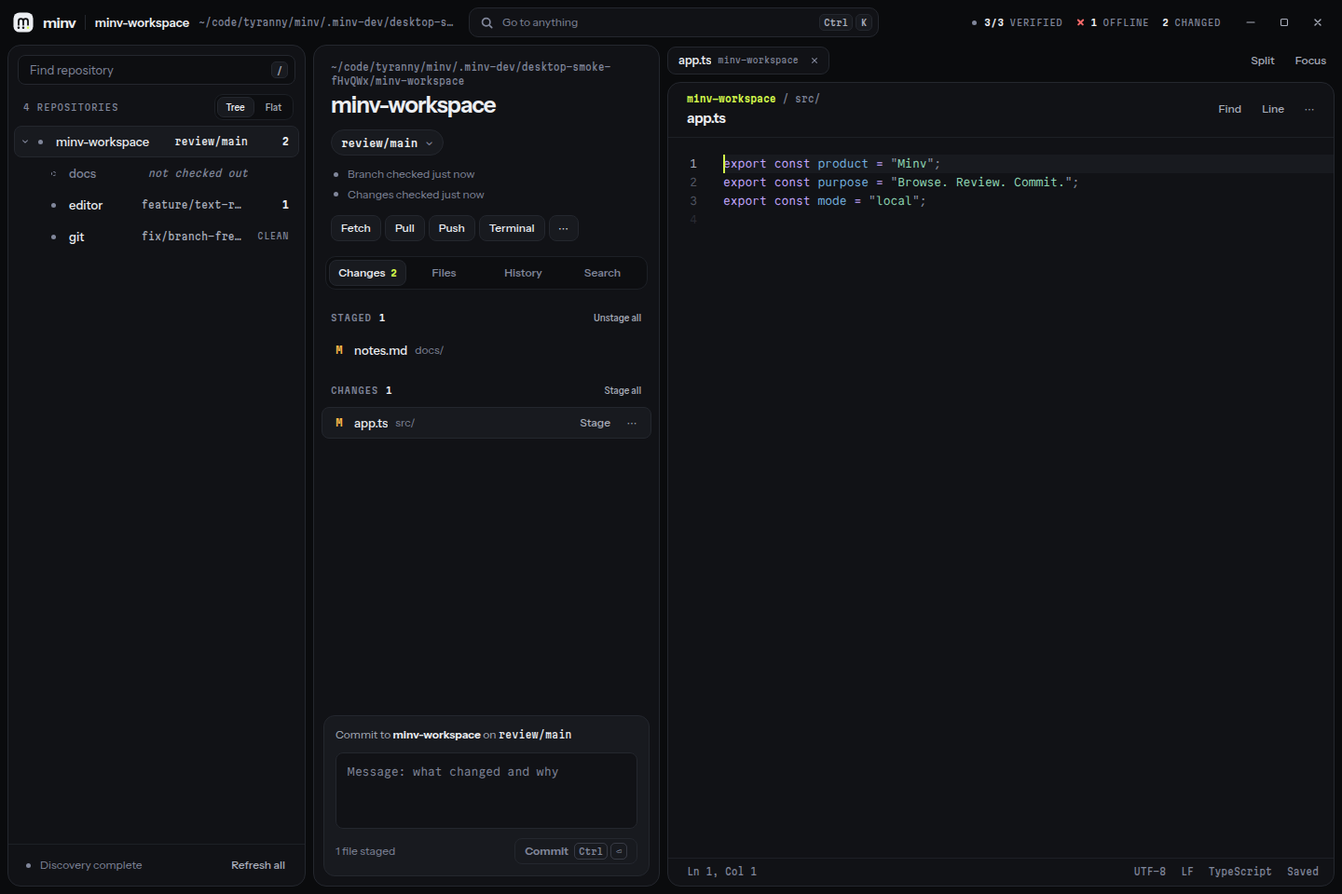
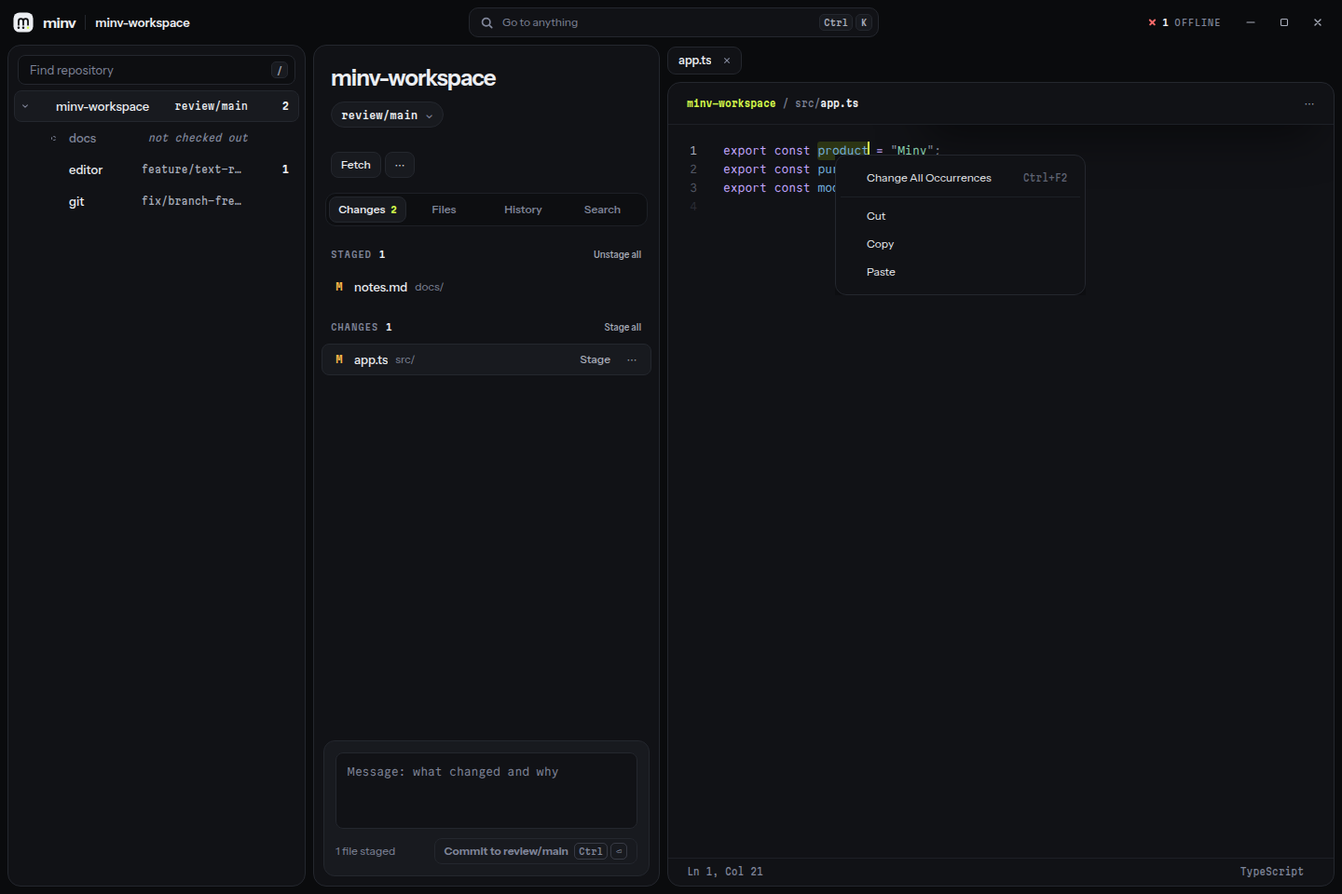
Quiet the interface: show exceptions, not confirmations
- Title bar: no workspace path; status shows only checking/offline/restricted.
- Repository list: no count, layout toggle moved to the palette, no 'clean'
  labels or dots on verified rows, footer only while discovering or on error,
  default branches dimmed.
- Repository panel: no absolute path or 'checked just now' lines, upstream
  only when ahead/behind, one adaptive Fetch/Pull/Push button plus a menu,
  commit form only when something is staged or drafted.
- Editor: one-line header, Find and Go to line in the menu, no Split/Focus
  buttons, footer only names unusual encodings and line endings.
- Home: work in progress, drafts and three keys instead of a dashboard.
- Record the rule in docs/DESIGN.md.

diff --git a/desktop/renderer/src/ui/sheets.ts b/desktop/renderer/src/ui/sheets.ts
@@ -3,17 +3,15 @@ import { normalizeAppearance, type Appearance, type EditorHandle } from '../cont
 import { changedRange, inlinePairs, splitRows, stats, type DiffLine, type FileDiff, type Hunk } from '../diff.js';
 import { attr, h, kbd, mod, text } from '../dom.js';
 import { branchText, changeCount, groupChanges, languageName, languageOf, plural, relativeTime, shortOid, splitPath } from '../format.js';
-import { selectedRow, type Sheet, type State } from '../state.js';
+import { type Sheet, type State } from '../state.js';
 import { close as closeIcon, mark } from './icons.js';
-import { ledger } from './index.js';
 
 interface SheetView { element: HTMLElement; render(state: State): void; layout?(): void; focus(): void; dispose?(): void }
 
 export function createDesk(app: App): { element: HTMLElement; render(state: State): void; focus(): void; layout(): void } {
   const tabs = h('div', { class: 'sheet-tabs', role: 'tablist', 'aria-label': 'Open sheets' });
-  const split = h('button', { class: 'button quiet', title: `Split desk (${mod} \\)`, onclick: () => app.toggleSplit() }, 'Split');
-  const focusBtn = h('button', { class: 'button quiet', title: `Focus mode (${mod} B)`, onclick: () => app.store.update(s => { s.focus = !s.focus; }) }, 'Focus');
-  const strip = h('div', { class: 'strip' }, tabs, h('div', { class: 'strip-tools' }, split, focusBtn));
+  const focusBtn = h('button', { class: 'button quiet', hidden: true, title: `Leave focus mode (${mod} B)`, onclick: () => app.store.update(s => { s.focus = false; }) }, 'Leave focus');
+  const strip = h('div', { class: 'strip' }, tabs, h('div', { class: 'strip-tools' }, focusBtn));
   const panes = h('div', { class: 'panes' });
   const element = h('main', { class: 'desk', 'aria-label': 'Sheets' }, strip, panes);
   const views = new Map<string, SheetView>();
@@ -48,12 +46,11 @@ export function createDesk(app: App): { element: HTMLElement; render(state: Stat
           onkeydown: (e: KeyboardEvent) => { if (e.key === 'Enter') { app.activate(sheet.id); app.focusPlane('sheet'); } } },
           sheet.dirty ? h('span', { class: 'dirty', 'aria-label': 'unsaved' }) : null,
           kind ? h('span', { class: 'kind' }, kind === 'review' ? 'Diff' : kind) : null,
-          h('span', { class: 'tt' }, sheet.title), owner && sheet.kind !== 'settings' ? h('span', { class: 'owner' }, owner) : null,
+          h('span', { class: 'tt' }, sheet.title), owner && sheet.kind !== 'settings' && (counts.get(sheet.title) ?? 0) > 1 ? h('span', { class: 'owner' }, owner) : null,
           h('button', { class: 'x', 'aria-label': `Close ${sheet.title}`, onclick: () => void app.closeSheet(sheet.id) }, closeIcon()));
-        void counts;
         return tab;
       }));
-      attr(split, 'aria-pressed', String(!!state.splitSheet));
+      attr(focusBtn, 'hidden', !state.focus);
       // Panes
       const active = state.sheets.find(s => s.id === state.activeSheet);
       const splitSheet = state.sheets.find(s => s.id === state.splitSheet);
@@ -89,7 +86,7 @@ function sheetFrame(label: string) {
 function heading(app: App, sheet: Sheet, title: string, aside?: string) {
   const owner = app.state.rows.get(sheet.repositoryId);
   const { dir } = splitPath(sheet.path ?? '');
-  return [h('div', { class: 'path' }, owner ? h('b', null, owner.name) : '', owner ? ' / ' : '', dir), h('div', { class: 'file-title' }, title, aside ? h('span', { class: 'aside' }, aside) : null)];
+  return [h('div', { class: 'path' }, owner ? h('b', null, owner.name) : '', owner ? ' / ' : '', dir, h('span', { class: 'leaf' }, title), aside ? h('span', { class: 'aside' }, aside) : null)];
 }
 
 const eolName = { lf: 'LF', crlf: 'CRLF', cr: 'CR', mixed: 'Mixed line endings', none: 'No line endings' } as const;
@@ -117,9 +114,10 @@ function fileView(app: App, sheet: Sheet): SheetView {
     if ((e.ctrlKey || e.metaKey) && !e.shiftKey && !e.altKey && e.key.toLowerCase() === 'g') { e.preventDefault(); e.stopPropagation(); void gotoLine(); }
   }, true);
   f.tools.append(
-    h('button', { class: 'button quiet', title: `Find (${mod} F)`, onclick: () => handle?.run('find') }, 'Find'),
-    h('button', { class: 'button quiet', title: `Go to line (${mod} G)`, onclick: () => void gotoLine() }, 'Line'),
-    h('button', { class: 'button quiet', onclick: (e: Event) => app.menu(e.currentTarget as HTMLElement, [
+    h('button', { class: 'button quiet', 'aria-label': 'File actions', onclick: (e: Event) => app.menu(e.currentTarget as HTMLElement, [
+      { label: 'Find', hint: `${mod} F`, run: () => handle?.run('find') },
+      { label: 'Go to line…', hint: `${mod} G`, run: () => void gotoLine() },
+      'sep',
       { label: 'Save', hint: `${mod} S`, run: () => void app.save(sheet) },
       { label: 'Review changes', run: () => void app.openReview(sheet.repositoryId, sheet.path!, 'unstaged') },
       { label: 'Reveal in file manager', run: () => void app.reveal(sheet.path) },
@@ -169,8 +167,12 @@ function fileView(app: App, sheet: Sheet): SheetView {
         requestAnimationFrame(() => { handle?.layout(); if (sheet.view) { handle?.setView(sheet.view); sheet.view = undefined; } else if (sheet.line) handle?.revealLine(sheet.line, sheet.column); handle?.focus(); });
       }
       handle = rt.handle;
-      if (c) { text(enc, `${encName[c.encoding]}${c.bom ? ' with BOM' : ''}`); text(eol, eolName[c.eol]); text(lang, languageName[languageOf(sheet.path!)] ?? 'Plain text'); }
-      text(state, rt.saving ? 'Saving…' : rt.dirty ? 'Unsaved' : 'Saved');
+      if (c) {
+        text(enc, c.encoding === 'utf8' && !c.bom ? '' : `${encName[c.encoding]}${c.bom ? ' with BOM' : ''}`);
+        text(eol, c.eol === 'lf' || c.eol === 'none' ? '' : eolName[c.eol]);
+        text(lang, languageName[languageOf(sheet.path!)] ?? 'Plain text');
+      }
+      text(state, rt.saving ? 'Saving…' : rt.dirty ? 'Unsaved' : '');
       state.className = rt.dirty ? 'state-dirty' : '';
       void st;
     },
@@ -449,30 +451,18 @@ function createFront(app: App) {
     render(state: State) {
       const w = state.workspace;
       if (!w) return;
-      const l = ledger(state);
-      const sel = selectedRow(state);
-      const withChanges = state.order.map(id => state.rows.get(id)!).filter(r => r.status.state === 'observed' && changeCount(r.status.value) > 0).slice(0, 7);
-      const key = JSON.stringify([w.name, l, sel?.id, withChanges.map(r => [r.id, changeCount(r.status.value)]), state.recoveries.length, w.trusted]);
+      const working = state.order.map(id => state.rows.get(id)!).filter(r => r.status.state === 'observed' && changeCount(r.status.value) > 0).slice(0, 7);
+      const key = JSON.stringify([w.name, working.map(r => [r.id, branchText(r.branch), changeCount(r.status.value)]), state.recoveries.map(d => d.documentId)]);
       if (element.dataset.key === key) return;
       element.dataset.key = key;
-      const known = l.total - l.offline;
-      const readout = (num: string | HTMLElement, what: string, signal = false) => h('div', null, h('div', { class: `num${signal ? ' signal' : ''}` }, num), h('div', { class: 'what' }, what));
-      const primer: [string[], string][] = [[[mod, 'K'], 'Go to a repository, file or command'], [['/'], 'Find a repository'], [[mod, '1 2 3'], 'Repositories, inspector, editor'], [['Space'], 'Stage or unstage the focused file'], [['S'], 'Stage the current hunk in a review'], [[mod, '⏎'], 'Commit']];
+      const pick = (label: string, aside: string, run: () => void) => h('button', { class: 'pick', onclick: run }, h('span', null, label), h('span', { class: 'b' }, aside));
+      const primer: [string[], string][] = [[[mod, 'K'], 'Go to anything'], [['/'], 'Find a repository'], [[mod, '⏎'], 'Commit']];
       element.replaceChildren(
-        h('div', { class: 'kicker' }, w.fixture ? 'Preview fixture · ' : '', w.roots[0]?.replace(/^\/home\/[^/]+/, '~') ?? ''),
-        h('h1', null, w.name),
-        h('div', { class: 'readouts', role: 'status' },
-          readout(h('span', null, String(l.verified), h('small', null, `/${known}`)), l.checking ? `branches verified · ${l.checking} checking` : l.unverified ? `branches verified · ${l.unverified} from last session` : 'branches verified', l.verified === known && known > 0),
-          readout(l.statusKnown ? String(l.withChanges) : '—', l.statusKnown < known ? `with changes · ${known - l.statusKnown} not scanned yet` : 'with changes'),
-          readout(String(l.offline + l.failed), l.offline + l.failed === 1 ? 'checkout unavailable' : 'checkouts unavailable'),
-          readout(w.discovery === 'complete' ? 'Done' : w.discovery === 'error' ? 'Error' : '…', w.discovery === 'complete' ? 'discovery complete' : w.discovery === 'cached' ? 'saved catalog, discovering' : 'discovering checkouts')),
-        h('div', { class: 'front-grid' },
-          h('div', null, h('h2', { class: 'label' }, withChanges.length ? 'Work in progress' : 'Repositories'),
-            ...(withChanges.length ? withChanges : state.order.slice(0, 6).map(id => state.rows.get(id)!)).map(r => h('button', { class: 'pick', onclick: () => { app.select(r.id); app.focusPlane('folio'); } },
-              h('span', null, r.name), h('span', { class: 'b' }, `${branchText(r.branch) ?? '—'}${r.status.value && changeCount(r.status.value) ? ` · ${changeCount(r.status.value)}` : ''}`)))),
-          h('div', null, h('h2', { class: 'label' }, 'Keys'), h('div', { class: 'primer' }, ...primer.flatMap(([keys, label]) => [kbd(...keys), h('span', null, label)]))),
-          state.recoveries.length ? h('div', null, h('h2', { class: 'label' }, 'Unsaved drafts'), ...state.recoveries.map(d => h('button', { class: 'pick', onclick: () => void openDraft(app, d.documentId, d.repositoryId, d.path) }, h('span', null, splitPath(d.path).base), h('span', { class: 'b' }, `${state.rows.get(d.repositoryId)?.name ?? ''}${d.updatedAt ? ` · ${relativeTime(d.updatedAt)}` : ''}`)))) : null),
-        h('p', { class: 'colophon' }, h('b', null, 'minv'), ' — an editor and a repository map. Nothing else competes for your attention.'));
+        working.length ? h('div', null, h('h2', { class: 'label' }, 'Work in progress'),
+          ...working.map(r => pick(r.name, `${branchText(r.branch) ?? '—'} · ${changeCount(r.status.value)}`, () => { app.select(r.id); app.focusPlane('folio'); }))) : '',
+        state.recoveries.length ? h('div', null, h('h2', { class: 'label' }, 'Unsaved drafts'),
+          ...state.recoveries.map(d => pick(splitPath(d.path).base, `${state.rows.get(d.repositoryId)?.name ?? ''}${d.updatedAt ? ` · ${relativeTime(d.updatedAt)}` : ''}`, () => void openDraft(app, d.documentId, d.repositoryId, d.path)))) : '',
+        h('div', { class: 'primer' }, ...primer.flatMap(([keys, label]) => [kbd(...keys), h('span', null, label)])));
     },
   };
 }

diff --git a/desktop/renderer/src/ui/folio.ts b/desktop/renderer/src/ui/folio.ts
@@ -47,7 +47,8 @@ export function createFolio(app: App): { element: HTMLElement; render(state: Sta
       const view = state.tab === 'changes' ? changes : state.tab === 'files' ? files : state.tab === 'history' ? history : search;
       if (shownTab !== state.tab || shownRepo !== row?.id) { body.replaceChildren(view.element); body.scrollTop = 0; shownTab = state.tab; shownRepo = row?.id; }
       view.render(state, row);
-      attr(slip, 'hidden', state.tab !== 'changes' || !row);
+      const staged = row?.status.value ? groupChanges(row.status.value).staged.length : 0;
+      attr(slip, 'hidden', state.tab !== 'changes' || !row || (!staged && !state.drafts.get(row.id)));
       if (row && state.tab === 'changes') commit.render(state, row);
     },
   };
@@ -63,7 +64,7 @@ function renderHead(app: App, head: HTMLElement, row: RepositoryRow | undefined,
   const chain: RepositoryRow[] = [];
   while (parent && chain.length < 8) { chain.unshift(parent); parent = parent.parentId ? state.rows.get(parent.parentId) : undefined; }
   for (const p of chain) crumbs.push(h('button', { onclick: () => app.select(p.id), title: `Select ${p.name}` }, p.name), '/');
-  crumbs.push(h('span', null, row.relativePath ? row.relativePath.slice(chain.at(-1)?.relativePath ? chain.at(-1)!.relativePath.length + 1 : 0) : row.root.replace(/^\/home\/[^/]+/, '~')));
+  if (chain.length) crumbs.push(h('span', null, row.relativePath.slice(chain.at(-1)?.relativePath ? chain.at(-1)!.relativePath.length + 1 : 0)));
 
   const b = row.branch;
   const name = branchText(b);
@@ -72,13 +73,13 @@ function renderHead(app: App, head: HTMLElement, row: RepositoryRow | undefined,
   const branchButton = h('button', { class: 'branch-name', disabled: !row.available, title: writable ? `Switch branch (${mod} ⇧ B)` : 'Branches', onclick: () => void app.branchPicker() },
     h('span', { class: unverified ? 'unverified' : '' }, name ?? (b.state === 'error' ? 'unreadable' : 'checking…')), h('span', { class: 'chev', 'aria-hidden': 'true' }, '⌄'));
   const up = row.upstream?.value;
-  const upstream = up ? h('span', { class: `upstream ${row.upstream!.state === 'observed' ? '' : 'unverified'}`, title: up.lastFetchAt ? `Last fetched ${relativeTime(up.lastFetchAt)}` : 'Not fetched in this session; counts use local refs only' },
-    up.ahead || up.behind ? [h('b', null, `↑${up.ahead}`), ' ', h('b', null, `↓${up.behind}`), ' '] : 'in sync with ', up.name) : null;
+  const upstream = up && (up.ahead || up.behind) ? h('span', { class: `upstream ${row.upstream!.state === 'observed' ? '' : 'unverified'}`, title: up.lastFetchAt ? `Last fetched ${relativeTime(up.lastFetchAt)}` : 'Not fetched in this session; counts use local refs only' },
+    up.ahead ? [h('b', null, `↑${up.ahead}`), ' '] : '', up.behind ? [h('b', null, `↓${up.behind}`), ' '] : '', up.name) : null;
 
   const glyph = (f: string) => h('span', { class: 'glyph', 'data-f': f, 'aria-hidden': 'true' });
   const facts = h('div', { class: 'facts' },
-    h('div', { class: 'fact' }, glyph(!row.available ? 'offline' : b.state), branchSentence(row)),
-    row.available ? h('div', { class: 'fact' }, glyph(row.status.state), statusSentence(row)) : null);
+    row.available && b.state !== 'observed' ? h('div', { class: 'fact' }, glyph(b.state), branchSentence(row)) : null,
+    row.available && row.status.state !== 'observed' ? h('div', { class: 'fact' }, glyph(row.status.state), statusSentence(row)) : null);
 
   const notes: HTMLElement[] = [];
   const op = b.value?.operation;
@@ -89,12 +90,18 @@ function renderHead(app: App, head: HTMLElement, row: RepositoryRow | undefined,
   const net = app.network.get(row.id);
   if (net) notes.push(h('div', { class: 'note', role: 'status' }, h('b', null, `${net.kind === 'fetch' ? 'Fetching' : net.kind === 'pull' ? 'Pulling' : 'Pushing'} ${net.remote}.`), `Started ${relativeTime(net.since)}.`, h('br'), h('button', { class: 'button', onclick: () => void app.cancelNetwork(row.id) }, 'Stop')));
 
+  // One sync button that says what it will do: pull when behind, push when ahead, otherwise fetch.
+  const sync: 'pull' | 'push' | 'fetch' = up?.behind ? 'pull' : up?.ahead ? 'push' : 'fetch';
+  const syncLabel = sync === 'pull' ? `Pull ↓${up!.behind}` : sync === 'push' ? `Push ↑${up!.ahead}` : 'Fetch';
   const actions = h('div', { class: 'repo-actions' },
-    h('button', { class: 'button', disabled: !writable || !!net, onclick: () => void app.remote('fetch') }, 'Fetch'),
-    h('button', { class: 'button', disabled: !writable || !!net, onclick: () => void app.remote('pull') }, 'Pull'),
-    h('button', { class: 'button', disabled: !writable || !!net, onclick: () => void app.remote('push') }, 'Push'),
-    h('button', { class: 'button', disabled: !row.available, onclick: () => void app.terminal() }, 'Terminal'),
+    h('button', { class: 'button', disabled: !writable || !!net, onclick: () => void app.remote(sync) }, syncLabel),
     h('button', { class: 'button', 'aria-label': 'More repository actions', onclick: (e: Event) => app.menu(e.currentTarget as HTMLElement, [
+      ...(writable && !net ? [
+        ...(sync !== 'fetch' ? [{ label: 'Fetch', run: () => void app.remote('fetch') }] : []),
+        ...(sync !== 'pull' ? [{ label: 'Pull', run: () => void app.remote('pull') }] : []),
+        ...(sync !== 'push' ? [{ label: 'Push', run: () => void app.remote('push') }] : []),
+        'sep' as const] : []),
+      { label: 'Open terminal here', run: () => void app.terminal() },
       { label: state.pins.includes(row.id) ? 'Unpin from top' : 'Pin to top', run: () => app.togglePin(row.id) },
       { label: 'Refresh', hint: `${mod} R`, run: () => void app.refreshSelected() },
       { label: 'Stash changes…', run: () => void app.stash(row.id) },
@@ -104,7 +111,7 @@ function renderHead(app: App, head: HTMLElement, row: RepositoryRow | undefined,
       { label: 'Show diagnostics', run: () => void app.call('diagnostics.open', undefined) },
     ]) }, '⋯'));
 
-  head.replaceChildren(h('div', { class: 'crumbs' }, ...crumbs), h('h1', { class: 'title' }, row.name),
+  head.replaceChildren(crumbs.length ? h('div', { class: 'crumbs' }, ...crumbs) : '', h('h1', { class: 'title' }, row.name),
     h('div', { class: 'branch-line' }, h('span', { class: 'on' }, b.value?.kind === 'detached' ? 'at' : 'on'), branchButton, upstream),
     facts, ...notes, actions);
 }
@@ -125,10 +132,13 @@ function createChanges(app: App) {
       { label: 'Open file', hint: 'E', run: () => void app.openFile(row.id, e.change.path) },
       ...(!staged && e.kind !== 'submodule' ? ['sep' as const, { label: 'Discard changes…', hint: 'Del', danger: true, run: () => void app.discard(row.id, [e.change.path]) }] : []),
     ]); } }, '⋯');
-    const sub = e.kind === 'submodule' ? h('span', { class: 'sub' }, pointerSentence(e)) : e.change.originalPath ? h('span', { class: 'sub' }, `from ${e.change.originalPath}`) : null;
+    // A moved pointer is what the section already says; only unusual pointer states get a second line.
+    const pointer = e.kind === 'submodule' ? pointerSentence(e) : '';
+    const plainPointer = pointer === 'checked-out commit differs from recorded' || pointer === 'new commit recorded';
+    const sub = pointer && !plainPointer ? h('span', { class: 'sub' }, pointer) : e.change.originalPath ? h('span', { class: 'sub' }, `from ${e.change.originalPath}`) : null;
     const el = h('div', { class: `file${sub ? ' tall' : ''}`, tabindex: '0', role: 'listitem', 'data-kind': e.kind,
       'aria-label': `${base}, ${dir || 'repository root'}, ${e.kind}${staged ? ', staged' : ''}`,
-      onclick: open,
+      title: pointer || null, onclick: open,
       onkeydown: (ev: KeyboardEvent) => {
         if (ev.key === 'Enter') open();
         else if (ev.key === ' ') { if (writable) void app.stage(row.id, [e.change.path], staged); }
@@ -192,12 +202,11 @@ function nextFocusable(from: HTMLElement, dir: 1 | -1): HTMLElement | undefined 
 // ── Commit slip ──────────────────────────────────────────────────────────────
 
 function createSlip(app: App, slip: HTMLElement) {
-  const target = h('div', { class: 'slip-target' });
   const message = h('textarea', { class: 'field', rows: '3', placeholder: 'Message: what changed and why', 'aria-label': 'Commit message', spellcheck: 'true' });
   const meter = h('span', { class: 'meter', 'aria-hidden': 'true' });
   const why = h('span', { class: 'slip-why grow' });
   const commit = h('button', { class: 'button primary', onclick: () => void submit() }, 'Commit', h('span', { class: 'keys' }, h('kbd', null, mod), h('kbd', null, '⏎')));
-  slip.append(target, message, h('div', { class: 'slip-foot' }, why, meter, commit));
+  slip.append(message, h('div', { class: 'slip-foot' }, why, meter, commit));
   let repo: string | undefined;
   const submit = async () => { if (!repo || commit.disabled) return; commit.disabled = true; await app.commit(repo); };
   message.addEventListener('input', () => {
@@ -217,7 +226,7 @@ function createSlip(app: App, slip: HTMLElement) {
       else if (!state.drafts.has(row.id) && message.value && document.activeElement !== message) { message.value = ''; grow(); meterText(); }
       const g = groupChanges(row.status.value);
       const branch = branchText(row.branch);
-      target.replaceChildren('Commit to ', h('b', null, row.name), ' on ', h('code', { class: row.branch.state === 'observed' ? '' : 'unverified' }, branch ?? '—'));
+      commit.firstChild!.textContent = branch ? `Commit to ${branch}` : 'Commit';
       const staged = `${plural(g.staged.length, 'file')} staged${row.branch.value?.kind === 'detached' ? ' · detached HEAD' : ''}`;
       const blocked = app.writable(row)
         ?? (row.status.state !== 'observed' ? 'Waiting for changes to be verified' : undefined)

diff --git a/desktop/renderer/src/ui/index.ts b/desktop/renderer/src/ui/index.ts
@@ -26,7 +26,6 @@ export function ledger(state: State) {
 
 export function createMasthead(app: App): { element: HTMLElement; render(state: State): void } {
   const name = h('span', { class: 'workspace-name' });
-  const root = h('span', { class: 'workspace-root' });
   const fixture = h('span', { class: 'fixture-label', hidden: true, title: 'No desktop host is attached. Data comes from the bundled preview fixture.' });
   const ledgerEl = h('div', { class: 'ledger', role: 'status', 'aria-live': 'off' });
   const goto = h('button', { class: 'goto', onclick: () => openPalette(app), 'aria-label': 'Go to a repository, file or command' }, search(), h('span', { class: 'q' }, 'Go to anything'), kbd(mod, 'K'));
@@ -36,22 +35,22 @@ export function createMasthead(app: App): { element: HTMLElement; render(state: 
     h('button', { class: 'close', 'aria-label': 'Close window', onclick: () => void app.call('window.close', undefined, true) }, close()));
   const brandMark = mark(); brandMark.classList.add('mark');
   const element = h('header', { class: 'masthead', ondblclick: (e: MouseEvent) => { if (e.target === element) void app.call('window.toggleMaximize', undefined, true); } },
-    h('div', { class: 'brand', title: 'Minv · Browse. Review. Commit.' }, brandMark, h('span', { class: 'wordmark' }, 'minv'), h('span', { class: 'sep' }), name, root, fixture),
+    h('div', { class: 'brand', title: 'Minv · Browse. Review. Commit.' }, brandMark, h('span', { class: 'wordmark' }, 'minv'), h('span', { class: 'sep' }), name, fixture),
     goto, h('div', { class: 'bar-right' }, ledgerEl, controls));
   return {
     element,
     render(state) {
       const w = state.workspace;
       text(name, w?.name ?? 'Browse. Review. Commit.');
-      text(root, w ? w.roots.join(' · ').replace(/^\/home\/[^/]+/, '~') : '');
+      name.title = w ? w.roots.join('\n') : '';
       attr(fixture, 'hidden', !w?.fixture); text(fixture, w?.fixture ?? '');
       if (!w) { ledgerEl.replaceChildren(); return; }
+      // Only what needs attention. A healthy workspace shows nothing here.
       const l = ledger(state);
-      const parts: [string, string | number, string, Freshness | 'offline' | ''][] = [];
-      parts.push(['', `${l.verified}/${l.total - l.offline}`, 'verified', l.checking ? 'refreshing' : l.unverified ? 'cached' : 'observed']);
-      if (l.failed + l.offline) parts.push(['opt', l.failed + l.offline, 'offline', 'error']);
-      parts.push(['opt', l.statusKnown ? l.withChanges : '—', 'changed', '']);
-      ledgerEl.replaceChildren(...parts.map(([cls, n, label, f]) => h('span', { class: `item ${cls}` }, f ? h('span', { class: 'glyph', 'data-f': f, 'aria-hidden': 'true' }) : null, h('b', null, String(n)), label)));
+      const parts: [string | number, string, Freshness | 'offline'][] = [];
+      if (l.checking) parts.push([l.checking, 'checking', 'refreshing']);
+      if (l.failed + l.offline) parts.push([l.failed + l.offline, 'offline', 'error']);
+      ledgerEl.replaceChildren(...parts.map(([n, label, f]) => h('span', { class: 'item' }, h('span', { class: 'glyph', 'data-f': f, 'aria-hidden': 'true' }), h('b', null, String(n)), label)));
       if (!w.trusted) ledgerEl.append(h('span', { class: 'item' }, h('b', null, 'Restricted')));
     },
   };
@@ -100,6 +99,7 @@ function paletteCommands(app: App) {
       c('backups', 'Restore a backup…', () => void app.restoreBackups()),
       c('focus', 'Toggle focus mode', () => app.store.update(s => { s.focus = !s.focus; }), `${mod} B`),
       c('split', 'Toggle split desk', () => app.toggleSplit(), `${mod} \\`),
+      c('layout', app.state.layout === 'tree' ? 'Show repositories as a flat list' : 'Show repositories as a tree', () => app.store.update(s => { s.layout = s.layout === 'tree' ? 'flat' : 'tree'; })),
       c('trust', app.state.workspace?.trusted ? 'Return to restricted mode' : 'Trust this workspace…', () => void app.setTrust(!app.state.workspace?.trusted)),
       c('close', 'Close workspace', () => void app.closeWorkspace()),
     ] : []),
@@ -117,15 +117,12 @@ function paletteCommands(app: App) {
 
 export function createIndex(app: App): { element: HTMLElement; render(state: State): void; focus(): void; focusFind(): void } {
   const find = h('input', { class: 'field', type: 'search', placeholder: 'Find repository', 'aria-label': 'Find repository by name, path or branch', spellcheck: 'false' });
-  const tree = h('button', { class: 'button quiet toggle', 'aria-pressed': 'true', onclick: () => app.store.update(s => { s.layout = 'tree'; }) }, 'Tree');
-  const flat = h('button', { class: 'button quiet toggle', 'aria-pressed': 'false', onclick: () => app.store.update(s => { s.layout = 'flat'; }) }, 'Flat');
-  const count = h('span');
   const spacer = h('div', { class: 'spacer' });
   const list = h('div', { class: 'list', role: 'tree', tabindex: '0', 'aria-label': 'Repositories', 'aria-multiselectable': 'false' }, spacer);
   const foot = h('div', { class: 'index-foot', role: 'status' });
   const note = h('div', { class: 'empty-note', hidden: true });
   const element = h('nav', { class: 'index', 'aria-label': 'Repository index' },
-    h('div', { class: 'index-head' }, h('div', { class: 'find' }, find, kbd('/')), h('div', { class: 'index-meta' }, count, h('div', { class: 'seg', role: 'group', 'aria-label': 'Layout' }, tree, flat))),
+    h('div', { class: 'index-head' }, h('div', { class: 'find' }, find, kbd('/'))),
     list, note, foot);
 
   let rows: string[] = [];
@@ -219,7 +216,7 @@ export function createIndex(app: App): { element: HTMLElement; render(state: Sta
     if (branch!.dataset.v !== `${branchLabel}|${op}|${row.branch.state}`) {
       branch!.dataset.v = `${branchLabel}|${op}|${row.branch.state}`;
       branch!.replaceChildren(branchLabel, op ? h('span', { class: 'op' }, op) : '');
-      branch!.className = `branch${row.branch.state === 'cached' || row.branch.state === 'stale' || !row.available || !b ? ' unverified' : ''}`;
+      branch!.className = `branch${row.branch.state === 'cached' || row.branch.state === 'stale' || !row.available || !b ? ' unverified' : ''}${b === 'main' || b === 'master' ? ' default' : ''}`;
     }
     branch!.title = row.branch.value?.kind === 'detached' ? `Detached at ${row.branch.value.oid}` : b ?? '';
     // Change cell: zero only once zero is established.
@@ -229,7 +226,7 @@ export function createIndex(app: App): { element: HTMLElement; render(state: Sta
     if (!row.available) { label = ''; }
     else if (s.state === 'error') { label = '!'; cls = 'count error'; }
     else if (s.value && (s.state === 'observed' || s.state === 'refreshing' || s.state === 'stale' || s.state === 'cached')) {
-      label = n ? `${n}${s.value.complete ? '' : '+'}` : 'clean';
+      label = n ? `${n}${s.value.complete ? '' : '+'}` : '';
       cls = `count${n ? '' : ' clean'}${s.state === 'observed' ? '' : ' unverified'}`;
     } else if (s.state === 'refreshing') label = '…';
     text(count!, label); count!.className = cls;
@@ -268,16 +265,16 @@ export function createIndex(app: App): { element: HTMLElement; render(state: Sta
       if (changed) spacer.style.height = `${rows.length * rowHeight() + 8}px`;
       if (!restoredScroll && app.indexScrollTop && rows.length) { restoredScroll = true; list.scrollTop = app.indexScrollTop; }
       if (find.value !== state.filter && document.activeElement !== find) find.value = state.filter;
-      attr(tree, 'aria-pressed', String(state.layout === 'tree')); attr(flat, 'aria-pressed', String(state.layout === 'flat'));
       const w = state.workspace;
-      text(count, state.filter ? `${rows.length} of ${plural(state.rows.size, 'repository', 'repositories')}` : plural(state.rows.size, 'repository', 'repositories'));
       const discovering = w && w.discovery !== 'complete';
       attr(note, 'hidden', rows.length > 0 || !w);
       text(note, state.filter ? `No repository matches “${state.filter}”.${discovering ? ' Discovery is still running; more repositories may appear.' : ''}` : 'No repositories found in this workspace yet.');
-      foot.replaceChildren(
-        h('span', { class: 'glyph', 'data-f': !w ? 'unknown' : w.discovery === 'complete' ? 'observed' : w.discovery === 'error' ? 'error' : w.discovery === 'cached' ? 'cached' : 'refreshing', 'aria-hidden': 'true' }),
-        h('span', { class: 'grow' }, !w ? '' : w.discovery === 'complete' ? 'Discovery complete' : w.discovery === 'cached' ? 'Showing the saved catalog' : w.discovery === 'error' ? (w.discoveryError ?? 'Discovery failed') : `Discovering · ${plural(state.rows.size, 'checkout')} so far`),
-        h('button', { class: 'button quiet', title: `Refresh all (${mod} ⇧ R)`, onclick: () => void app.refreshAll() }, 'Refresh all'));
+      // The footer exists only while discovery is unfinished or failed.
+      attr(foot, 'hidden', !w || w.discovery === 'complete');
+      if (w && w.discovery !== 'complete') foot.replaceChildren(
+        h('span', { class: 'glyph', 'data-f': w.discovery === 'error' ? 'error' : w.discovery === 'cached' ? 'cached' : 'refreshing', 'aria-hidden': 'true' }),
+        h('span', { class: 'grow' }, w.discovery === 'cached' ? 'Showing the saved catalog' : w.discovery === 'error' ? (w.discoveryError ?? 'Discovery failed') : `Discovering · ${plural(state.rows.size, 'checkout')} so far`),
+        w.discovery === 'error' ? h('button', { class: 'button quiet', onclick: () => void app.refreshAll() }, 'Retry') : '');
       paint(state);
       if (state.selectedId && changed && state.selectedId !== active) { /* keep the anchor where it is: never scroll on background updates */ }
     },

diff --git a/desktop/renderer/styles/app.css b/desktop/renderer/styles/app.css
@@ -520,3 +520,13 @@ textarea.field { height: auto; padding: 10px 12px; resize: none; line-height: 1.
 .editor-host .monaco-menu .monaco-action-bar.vertical .action-label { padding: 0 10px; font-size: var(--text-small); }
 .editor-host .monaco-menu .monaco-action-bar.vertical .keybinding { font-family: var(--font-readout); font-stretch: 87.5%; font-size: 10.5px; color: var(--fg3); padding: 0 10px; }
 .editor-host .monaco-menu .monaco-action-bar.vertical .action-label.separator { border-bottom-color: var(--line) !important; margin: 4px 6px; }
+
+/* Quiet by default: verified rows carry no dot; the home page is a short list, not a dashboard. */
+.row .glyph[data-f="observed"]::before { background: transparent; }
+.sheet-head { min-height: 44px; }
+.sheet-head .path .leaf { color: var(--fg); font-weight: 600; }
+.sheet-head .path .aside { margin-left: 10px; color: var(--fg3); }
+.front { align-content: center; justify-items: start; gap: 36px; padding: 40px max(32px, 12%); }
+.front > div { width: 100%; max-width: 420px; }
+.front .primer { color: var(--fg3); }
+.row .branch.default { color: var(--fg3); }

diff --git a/docs/DESIGN.md b/docs/DESIGN.md
@@ -23,6 +23,16 @@ The previous Ink/Paper direction (serif, paper, desk metaphor, beige and copper)
 | Shape before colour | Freshness glyphs differ by shape; unverified values are italic; high contrast adds outlines and diff edge bars. |
 | Calm | No spinner walls, no shifting rows, no toasts for routine success except a brief dark pill. |
 
+## Exceptions, not confirmations
+
+Kaf's review (2026-10-05): the first Signal build showed too much. The rule since then is that **a healthy workspace is quiet**. Minv shows a fact when it needs attention and stays silent when it only confirms that things are fine.
+
+- No "verified", "clean", "in sync", "checked just now" or "discovery complete" text. Fresh and clean are the default and need no label.
+- Stale, checking, offline, unreadable, ahead/behind, changes, conflicts, restricted mode and degraded watching always show, as before. Hiding a confirmation never hides an unverified state (PRD §9 still holds).
+- One adaptive sync button (Fetch, or Pull ↓n / Push ↑n when that's the useful action). Everything else is in ⋯ or the palette.
+- The commit form appears once something is staged or a message is drafted. The editor footer names encoding and line endings only when they aren't UTF-8 and LF. Tabs name their repository only when two tabs share a file name. Default branches (`main`, `master`) are dimmed so feature branches stand out.
+- The empty desk lists work in progress and unsaved drafts, plus three keys. It's not a dashboard.
+
 ## Composition
 
 ```
